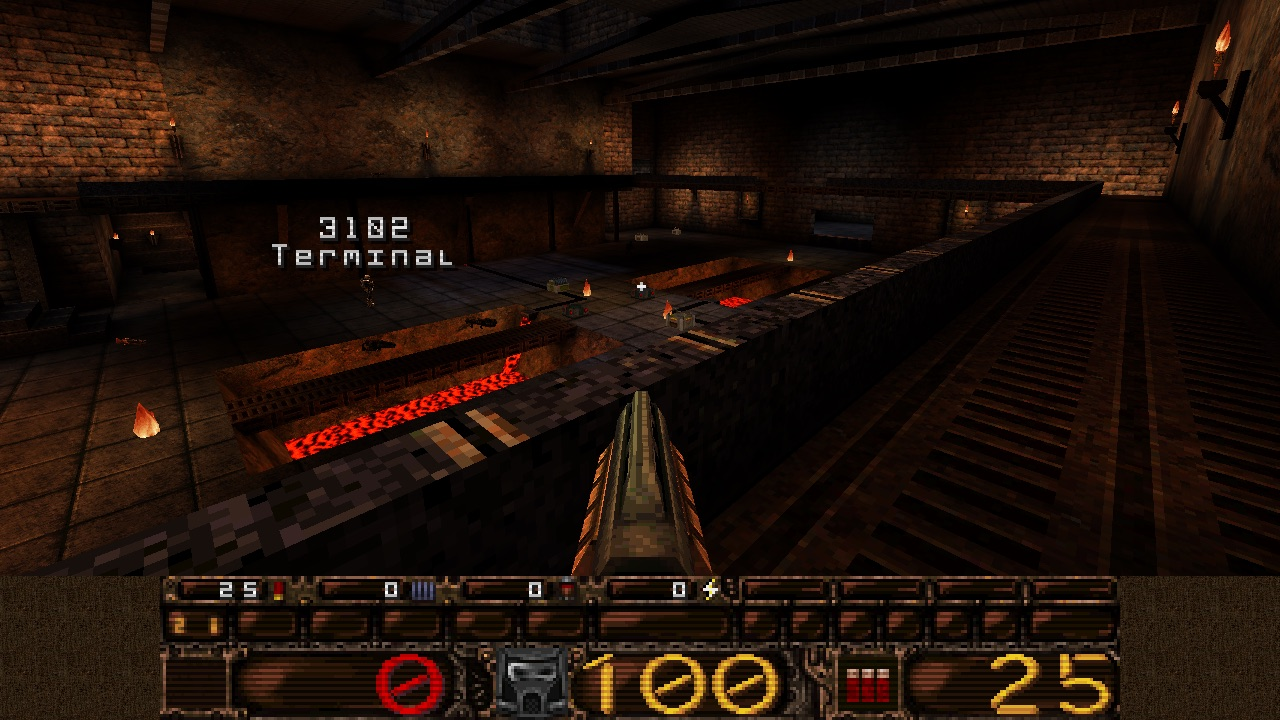
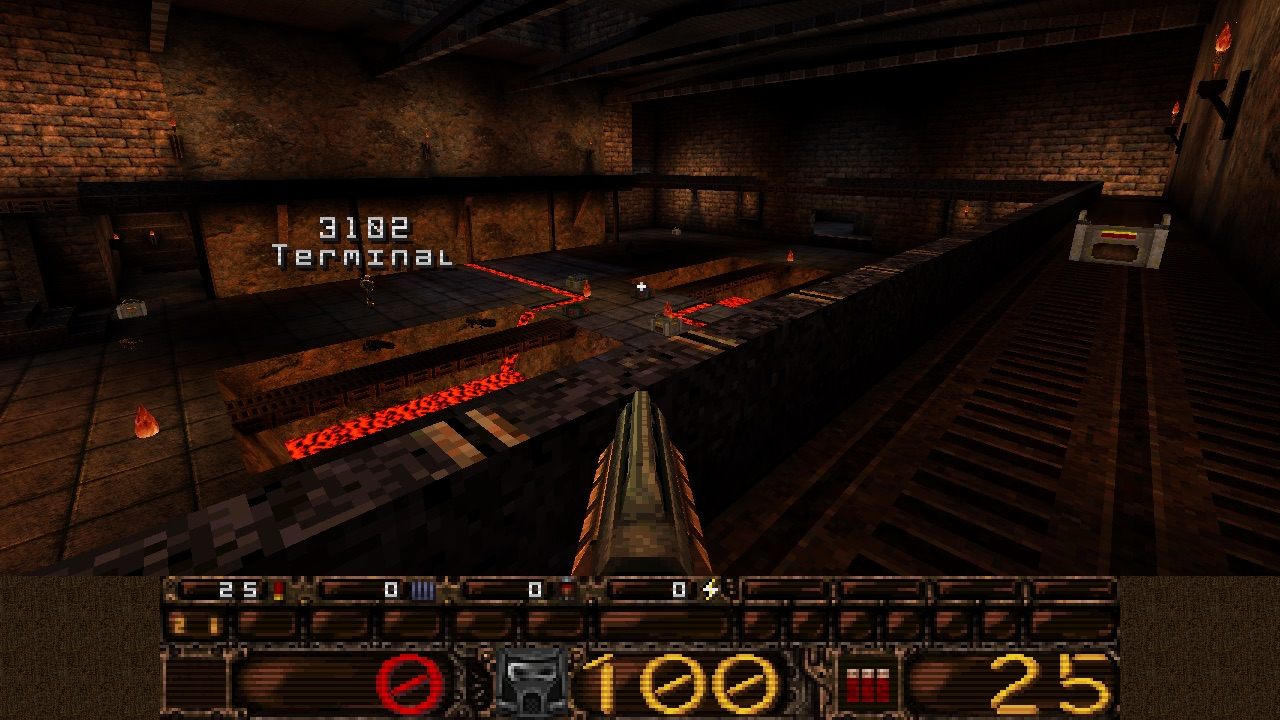
fix(forge): Glowing lava channels, wider, flowing into their pours
The channels rendered black. The cause was lit liquids: ericw-tools 2.0
gives every liquid face a lightmap, and this engine draws it (r_litwater
1). The channels' lava sat 16 down a 16-wide slot, where its lightmap
read 4 of 255. Forge alone has lava; no compile option or engine setting
changes, so the other maps are untouched (Ruins' lit water is as before).

- All Forge's lava lights itself: an ericw surface light on every *lava1
  face. Warm lights also run along each channel, every 64, just over the
  lava.
- The channels are 28 wide (a 32 groove with 2-unit metal rims), 4 under
  the floor. That is narrower than any hull, so nothing drops in; 32 would
  let a hull's origin through the gap. Their lines shift by 8 to fit the
  16 grid.
- No lip at the pit's edge: the channel's lava runs on over the edge into
  the pour, whose shape is unchanged.
- The shells and spikes in the hall's cross move off the wider channels.
- validate_bsp: a new themed check, lavaglow. Every lava surface must be
  lit to a mean of 96 of 255 or more. It failed on the old Forge, and the
  hazard map's unlit lava fails it in a unit test.

diff --git a/tools/arena_layout.py b/tools/arena_layout.py
@@ -66,13 +66,14 @@ class LayoutError(Exception):
 
 
 THEMED_RULES = ("central levels sightline drops sky water framed walkways routelight fixtures "
-                "skywall")
+                "skywall lavaglow")
 
 
-def _channel_boxes(a):
+def _channel_boxes(a, width=None):
     """The groove boxes (x0, y0, z0, x1, y1, z1) of a lava channel: its path's
-    axis-aligned legs, width wide, depth deep under z."""
-    h, z = a["width"] // 2, a["z"]
+    axis-aligned legs, carve (default width) wide, depth deep under z; with
+    width, its lava's (the opening between its rims)."""
+    h, z = (width if width is not None else a.get("carve", a["width"])) // 2, a["z"]
     path = a["path"]
     out = []
     for i, ((xa, ya), (xb, yb)) in enumerate(zip(path, path[1:])):
@@ -88,6 +89,20 @@ def _channel_boxes(a):
         else:
             xs = (xa - ea, xb + eb) if xa < xb else (xb - eb, xa + ea)
             out.append((xs[0], ya - h, z - a["depth"], xs[1], ya + h, z))
+    return out
+
+
+def _box_minus(c, cuts):
+    """Box c (x0, y0, z0, x1, y1, z1) less the plan rectangles of cuts (same
+    z): a list of boxes, split on every cut's edges."""
+    xs = sorted({c[0], c[3]} | {v for k in cuts for v in (k[0], k[3]) if c[0] < v < c[3]})
+    ys = sorted({c[1], c[4]} | {v for k in cuts for v in (k[1], k[4]) if c[1] < v < c[4]})
+    out = []
+    for xa, xb in zip(xs, xs[1:]):
+        for ya, yb in zip(ys, ys[1:]):
+            mx, my = (xa + xb) / 2, (ya + yb) / 2
+            if not any(k[0] <= mx <= k[3] and k[1] <= my <= k[4] for k in cuts):
+                out.append((xa, ya, c[2], xb, yb, c[5]))
     return out
 
 
@@ -252,6 +267,8 @@ def build(L):
         if len(item) > 4:
             keys["spawnflags"] = str(item[4])
         ents.append((keys, []))
+    for keys in L.get("surface_lights", ()):   # light from every face of a texture
+        ents.append((dict(keys, classname="light"), []))
     for lt in L.get("lights", ()):
         x, y, z, lv = lt[:4]
         keys = {"classname": "light", "origin": f"{x} {y} {z}", "light": str(lv)}
@@ -310,11 +327,29 @@ def _piece(kind, a):
         a = dict(a)
         return K.SCONCES[a.pop("design")](**a)
     if kind == "lava_channel":   # lava in its groove, and its pour into the pit
+        opening = _channel_boxes(a, a["width"])
         lava = [K.box(seg[:3], (seg[3], seg[4], seg[5] - a["surface"]), a["tex"])
-                for seg in _channel_boxes(a)]
+                for seg in opening]
+        # rims: the groove's carve round the opening (a channel narrower
+        # than the 16 grid allows), flush with the floor
+        rims = []
+        for c in _channel_boxes(a):
+            for r in _box_minus(c, opening):
+                rims.append(K.box(r[:3], r[3:], a["rim_tex"]))
         p = a["pour"]
-        b, e = K.lava_pour(*a["path"][-1], p["face"], a["z"], p["zb"], a["tex"], p["lip_tex"])
-        return lava + b, e
+        b, e = K.lava_pour(*a["path"][-1], p["face"], a["z"], p["zb"], a["tex"],
+                           p.get("lip_tex"), feed=(a["width"] // 2, a["z"] - a["surface"]))
+        # warm lights along it, just over the lava: it glows
+        lights = []
+        for (xa, ya), (xb, yb) in zip(a["path"], a["path"][1:]):
+            n = max(1, round(math.dist((xa, ya), (xb, yb)) / a.get("light_every", 64)))
+            for i in range(n + 1):
+                lx, ly = xa + (xb - xa) * i / n, ya + (yb - ya) * i / n
+                lights.append(({"classname": "light", "origin": f"{lx:g} {ly:g} {a['z'] + 8}",
+                                "light": str(a.get("light", 150)), "_color": a.get("light_color",
+                                                                                   "1 0.75 0.4"),
+                                "wait": "1.5"}, []))
+        return lava + rims + b, e + lights
     fn = {"shaft": K.shaft, "rail": K.rail,
           "column": K.column, "colonnade": K.colonnade, "arch": K.arch, "stairs": K.stairs,
           "ramp": K.ramp, "beam": K.beam, "buttress": K.buttress, "rocks": K.rocks,

diff --git a/tools/arena_maps.py b/tools/arena_maps.py
@@ -832,12 +832,15 @@ def _forge():
         ("box", dict(lo=(-32, -224, -16), hi=(32, 192, 0), tex=GRATE)),
         # narrow lava channels from the side channels, along the floor
         # between the grids, each pouring over a central pit's edge
-        ("lava_channel", dict(path=[(-576, 296), (-88, 296), (-88, 192)], width=16, z=0,
-                              depth=24, surface=16, tex=LAVA, style="channel",
-                              pour=dict(face="-y", zb=-96, lip_tex=RIM))),
-        ("lava_channel", dict(path=[(576, 344), (88, 344), (88, 448)], width=16, z=0,
-                              depth=24, surface=16, tex=LAVA, style="channel",
-                              pour=dict(face="+y", zb=-96, lip_tex=RIM))),
+        # (28 wide in a 32 groove with metal rims: under the 32 a hull
+        # needs, so nothing drops in; lava 4 under the floor, lit along it,
+        # running on over the edge into the pour)
+        ("lava_channel", dict(path=[(-576, 304), (-96, 304), (-96, 192)], width=28, carve=32,
+                              z=0, depth=16, surface=4, tex=LAVA, style="channel",
+                              rim_tex=RIM, pour=dict(face="-y", zb=-96))),
+        ("lava_channel", dict(path=[(576, 336), (96, 336), (96, 448)], width=28, carve=32,
+                              z=0, depth=16, surface=4, tex=LAVA, style="channel",
+                              rim_tex=RIM, pour=dict(face="+y", zb=-96))),
         # grated catwalks at 192: over each channel, across the south end,
         # and to the altar's corners; the twin stairs climb onto them
         ("box", dict(lo=(-640, -320, 176), hi=(-560, 960, 192), tex=GRATE)),
@@ -900,7 +903,7 @@ def _forge():
         ("weapon_supershotgun", -544, -448, 16), ("item_shells", 544, -480, 16),
         ("weapon_nailgun", -1040, 760, -48), ("item_spikes", 1060, 760, -48),
         ("item_health", 0, 240, 16), ("item_health", 0, 400, 16),
-        ("item_shells", -160, 320, 16, 1), ("item_spikes", 160, 320, 16, 1),
+        ("item_shells", -160, 352, 16, 1), ("item_spikes", 160, 272, 16, 1),
         ("item_armor1", 280, 1450, 16), ("item_health", -440, 1376, 208),
         # behind the pool, through the tunnels or round it: the yellow armour
         ("item_armor2", 0, 1296, 16),
@@ -951,6 +954,10 @@ def _forge():
                for y in (-120, 88, 552, 760)]
     return {
         "name": "psqforge", "title": "psQuake Arena: Forge",
+        # all its lava glows: light from every lava face (ericw surface
+        # light); this engine draws a liquid's lightmap, so unlit lava is black
+        "surface_lights": [{"origin": "0 320 256", "_surface": LAVA, "light": "200", "_color": "1 0.55 0.2",
+                            "_surface_offset": "4"}],
         # places worth going that must be walked to, no jump or drop: the
         # yellow armour behind the pool, and through each tunnel
         "walkto": [(0, 1296, 0), (-448, 1280, 0), (448, 1280, 0)],

diff --git a/tools/arena_kit.py b/tools/arena_kit.py
@@ -270,24 +270,32 @@ def rail(axis, a0, a1, at, face, z, tex, top=32, thick=6, bar=10, every=64):
     return out
 
 
-def lava_pour(x, y, face, z, zb, tex, lip_tex):
-    """A lava channel's spout and its pour into a pit: a lip at (x, y) on the
-    pit's edge sticking out toward face ('+y', '-y', '+x', '-x') over the
-    funnel, and a thick, rounded stream from the lip down to zb, swelling as
-    it falls (molten metal: viscous). (brushes, entities): its warm lights,
-    a yellow-white one at the lip and an orange one where it lands."""
+def lava_pour(x, y, face, z, zb, tex, lip_tex=None, feed=None):
+    """A lava channel's pour into a pit at (x, y) on the pit's edge, falling
+    toward face ('+y', '-y', '+x', '-x') over the funnel: a thick, rounded
+    stream down to zb, swelling as it falls (molten metal: viscous).
+    lip_tex: a stone lip under its start (a spout); feed (half-width, top):
+    instead, the channel's lava runs on over the edge into the stream, one
+    flow. (brushes, entities): its warm lights, a yellow-white one at its
+    start and an orange one where it lands."""
     dx, dy = {"+x": (1, 0), "-x": (-1, 0), "+y": (0, 1), "-y": (0, -1)}[face]
     lip = []
-    for (a, b), (c, d) in ((((x - 12) if dy else x, (y - 12) if dx else y),
-                            ((x + 12) if dy else x + 20 * dx, (y + 12) if dx else y + 20 * dy)),):
-        lo = (min(a, c), min(b, d), z - 12)
-        hi = (max(a, c), max(b, d), z)
-        lip.append(box(lo, hi, lip_tex))
+    if lip_tex is not None:
+        a, b = ((x - 12) if dy else x, (y - 12) if dx else y)
+        c, d = ((x + 12) if dy else x + 20 * dx, (y + 12) if dx else y + 20 * dy)
+        lip.append(box((min(a, c), min(b, d), z - 12), (max(a, c), max(b, d), z), lip_tex))
     # the stream: off the lip's end and down over the funnel's slope (which
     # falls 2 for each 1 in), swelling as it goes: three rounded rings
     def ring(d, zz, r):
         return [(px, py, zz) for px, py in octagon(x + d * dx, y + d * dy, r, max(2, r * 2 // 5))]
     mid = (z + zb) // 2
+    if feed is not None:
+        # the channel's lava, its full width at the edge, narrowing and
+        # dipping into the stream's first ring
+        hw, top = feed
+        edge = [(x + u * dy, y + u * dx) for u in (-hw, hw)]
+        lip.append(hull([(px, py, zz) for px, py in edge for zz in (top, top - 12)]
+                        + ring(14, z - 8, 6), tex))
     stream = [hull(ring(14, z - 8, 6) + ring(14 + (z - 8 - mid) // 2, mid, 8), tex),
               hull(ring(14 + (z - 8 - mid) // 2, mid, 8) + ring(14 + (z - 8 - zb) // 2, zb, 10),
                    tex)]

diff --git a/tools/validate_bsp.py b/tools/validate_bsp.py
@@ -110,6 +110,9 @@ The themed arenas (tools/arena_layout.py) name more in "_psq_rules":
              no drop (a place worth going is not behind a jump)
   skywall    no sky face stands upright: open spaces under one sky meet it at
              one height, so no sky wall hides the real walls beyond it
+  lavaglow   every lava surface (its top faces) is lit to a mean of LAVA_GLOW
+             (of 255) or more: this engine draws a liquid's lightmap (lit
+             water), so lava in the dark renders black; lava should glow
   lavalight  on any map with lava: each lava area has a warm light (_color
              red over blue) within 256 of it
 
@@ -923,6 +926,8 @@ def _check_themed(r, bsp, ents, entry, rules, cell_size):
         _check_framed(r, bsp)
     if "skywall" in rules:
         _check_skywall(r, bsp)
+    if "lavaglow" in rules:
+        _check_lavaglow(r, bsp)
     _check_lavalight(r, bsp, ents)
 
 
@@ -1538,6 +1543,35 @@ def _check_skywall(r, bsp):
     r.check("skywall", not bad, f"{len(bad)} of {n} sky faces stand upright: "
             + "; ".join(bad[:8]) + (f" (+{len(bad) - 8} more)" if len(bad) > 8 else "")
             if bad else f"all {n} sky faces are ceilings")
+
+
+LAVA_GLOW = 96
+
+
+def _check_lavaglow(r, bsp):
+    """See 'lavaglow'."""
+    mip = bsp.miptex()
+    lm = _face_lightmaps(bsp)
+    o, n = bsp.lumps["lighting"]
+    bad, total = [], 0
+    for fi, (nrm, _, _, _, size, ofs, lo, hi) in sorted(lm.items()):
+        ti = bsp.faces[fi][4]
+        mi = bsp.texinfo[ti][8]
+        name = mip[mi][0] if 0 <= mi < len(mip) else ""
+        if not name.lower().startswith("*lava") or nrm[2] < 0.7:
+            continue
+        count = size[0] * size[1]
+        if count <= 0 or ofs + count > n:
+            bad.append(f"lava face {fi}: its lightmap is out of range")
+            continue
+        vals = bsp.data[o + ofs:o + ofs + count]
+        total += 1
+        mean = sum(vals) / count
+        if mean < LAVA_GLOW:
+            bad.append(f"{_fmt(lo)}..{_fmt(hi)} mean {mean:.0f}")
+    r.check("lavaglow", not bad, f"{len(bad)} of {total} lava surfaces lit under {LAVA_GLOW}: "
+            + "; ".join(bad[:6]) + (f" (+{len(bad) - 6} more)" if len(bad) > 6 else "")
+            if bad else f"all {total} lava surfaces lit to {LAVA_GLOW} or more")
 
 
 def _check_lavalight(r, bsp, ents):

diff --git a/tests/arena/test_validate_themed.py b/tests/arena/test_validate_themed.py
@@ -9,7 +9,8 @@ moved under a roof; the sightline blocked, too short) and a walk with only
 two floors fail the right check. On the hazard test map (a 256 pit, lava with no warm light, pools walled
 in): drops, lavalight and exits fail, and water passes (its water reaches
 within 8 of the floor all round). A framed texture shifted half a picture fails framed; a
-sky face turned upright fails skywall. Crafted
+sky face turned upright fails skywall; the hazard map's unlit lava fails
+lavaglow. Crafted
 values (a central area outside the map, a non-finite texinfo) fail and
 never raise.
 """
@@ -110,6 +111,15 @@ class Themed(unittest.TestCase):
         with contextlib.redirect_stdout(io.StringIO()):
             vb._check_lavalight(r, HZ, HZ_ENTS)
         self.assertEqual(r.failed, ["lavalight"])
+
+    def test_lavaglow(self):
+        """The hazard map's lava has no light of its own: lit liquids render
+        it dark, so it fails lavaglow; the Temple, with no lava, passes."""
+        for bsp, want in ((HZ, ["lavaglow"]), (BSP, [])):
+            r = vb.Report()
+            with contextlib.redirect_stdout(io.StringIO()):
+                vb._check_lavaglow(r, bsp)
+            self.assertEqual(r.failed, want)
 
     def test_framed_shifted(self):
         r = vb.Report()
